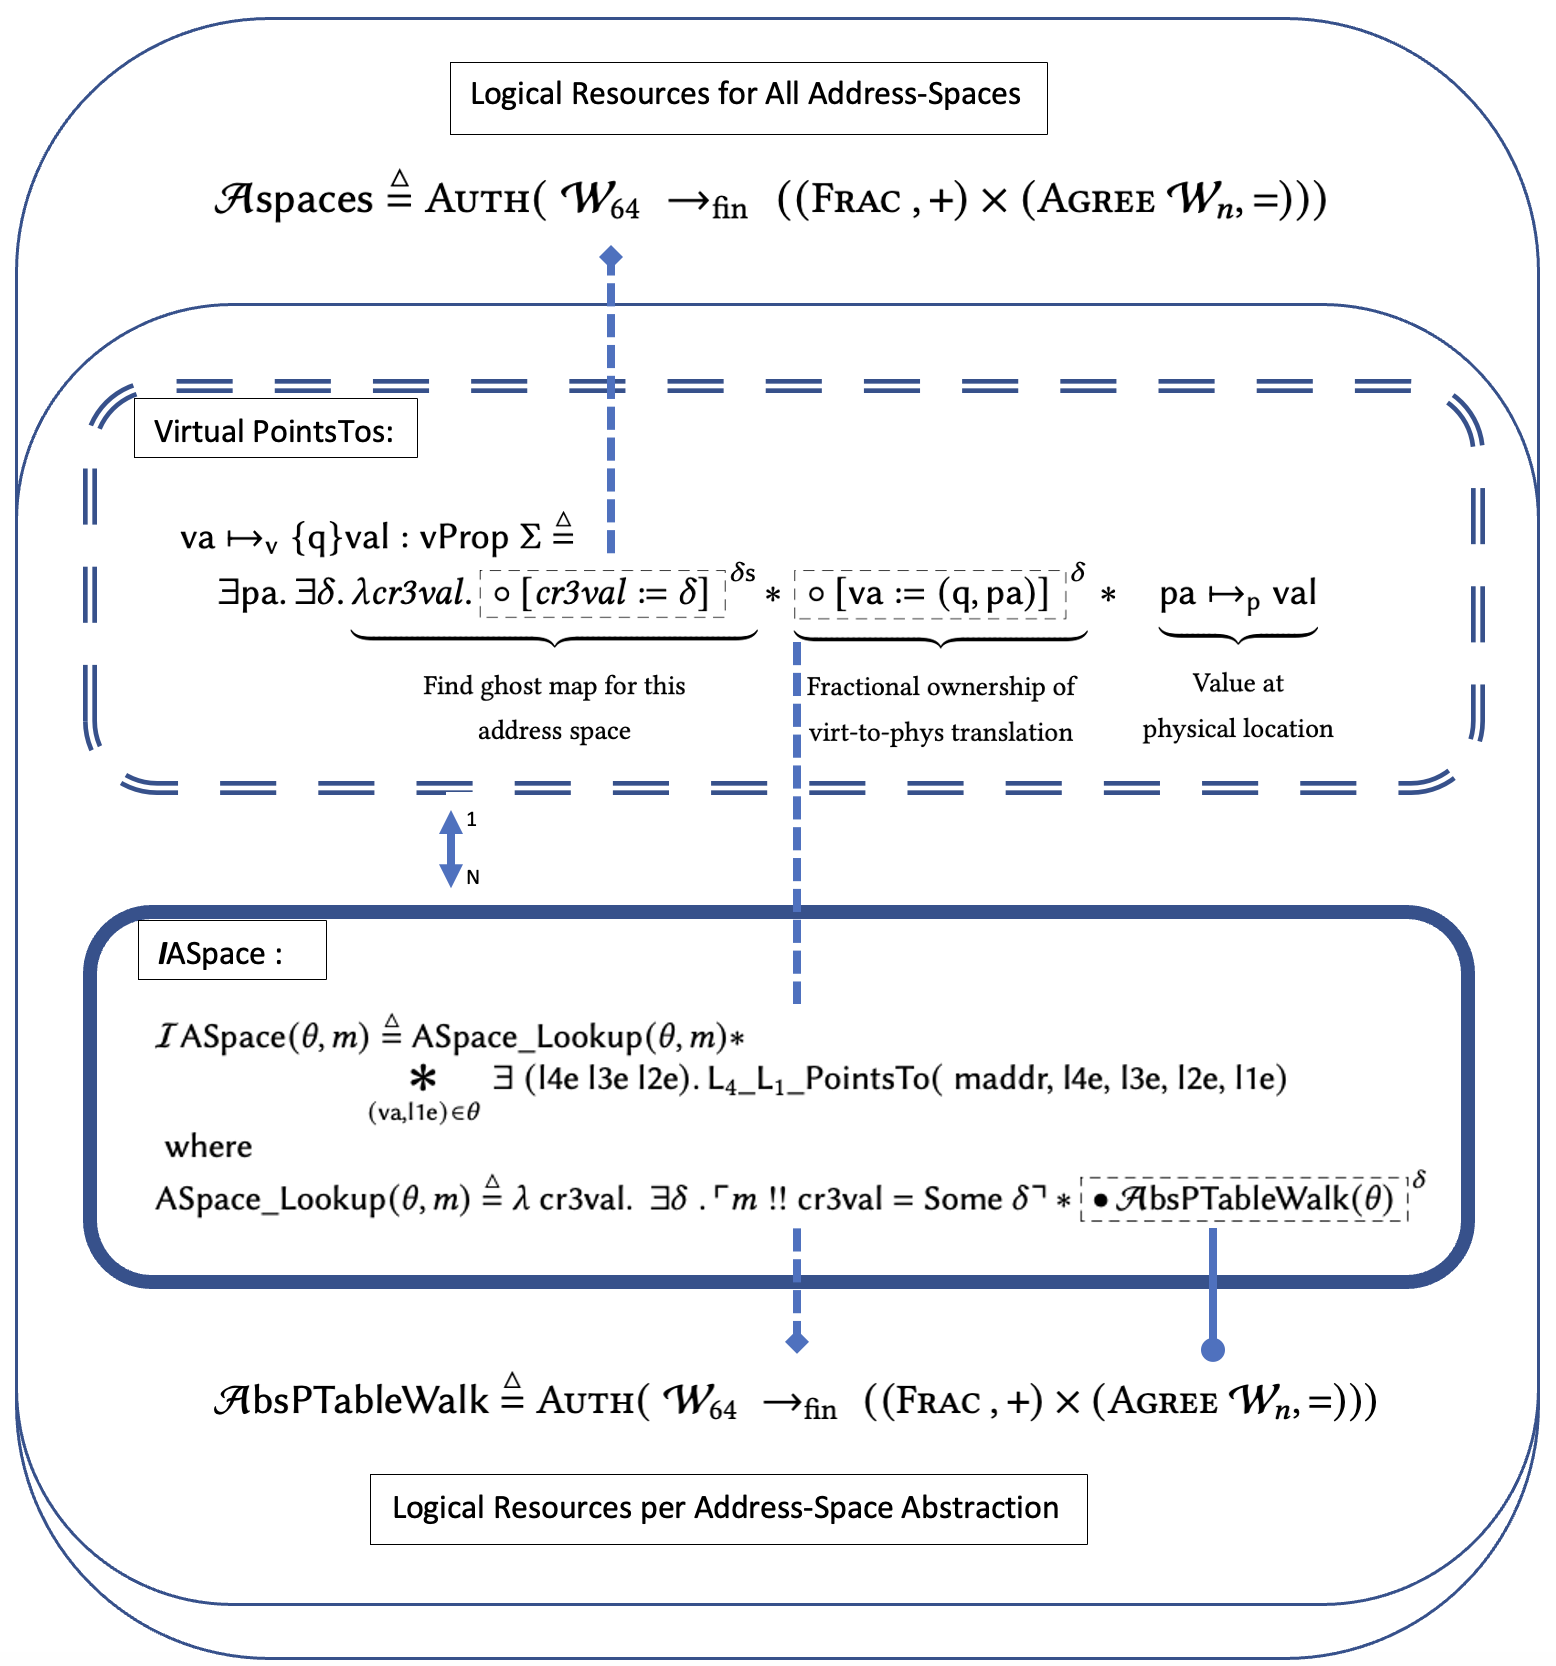
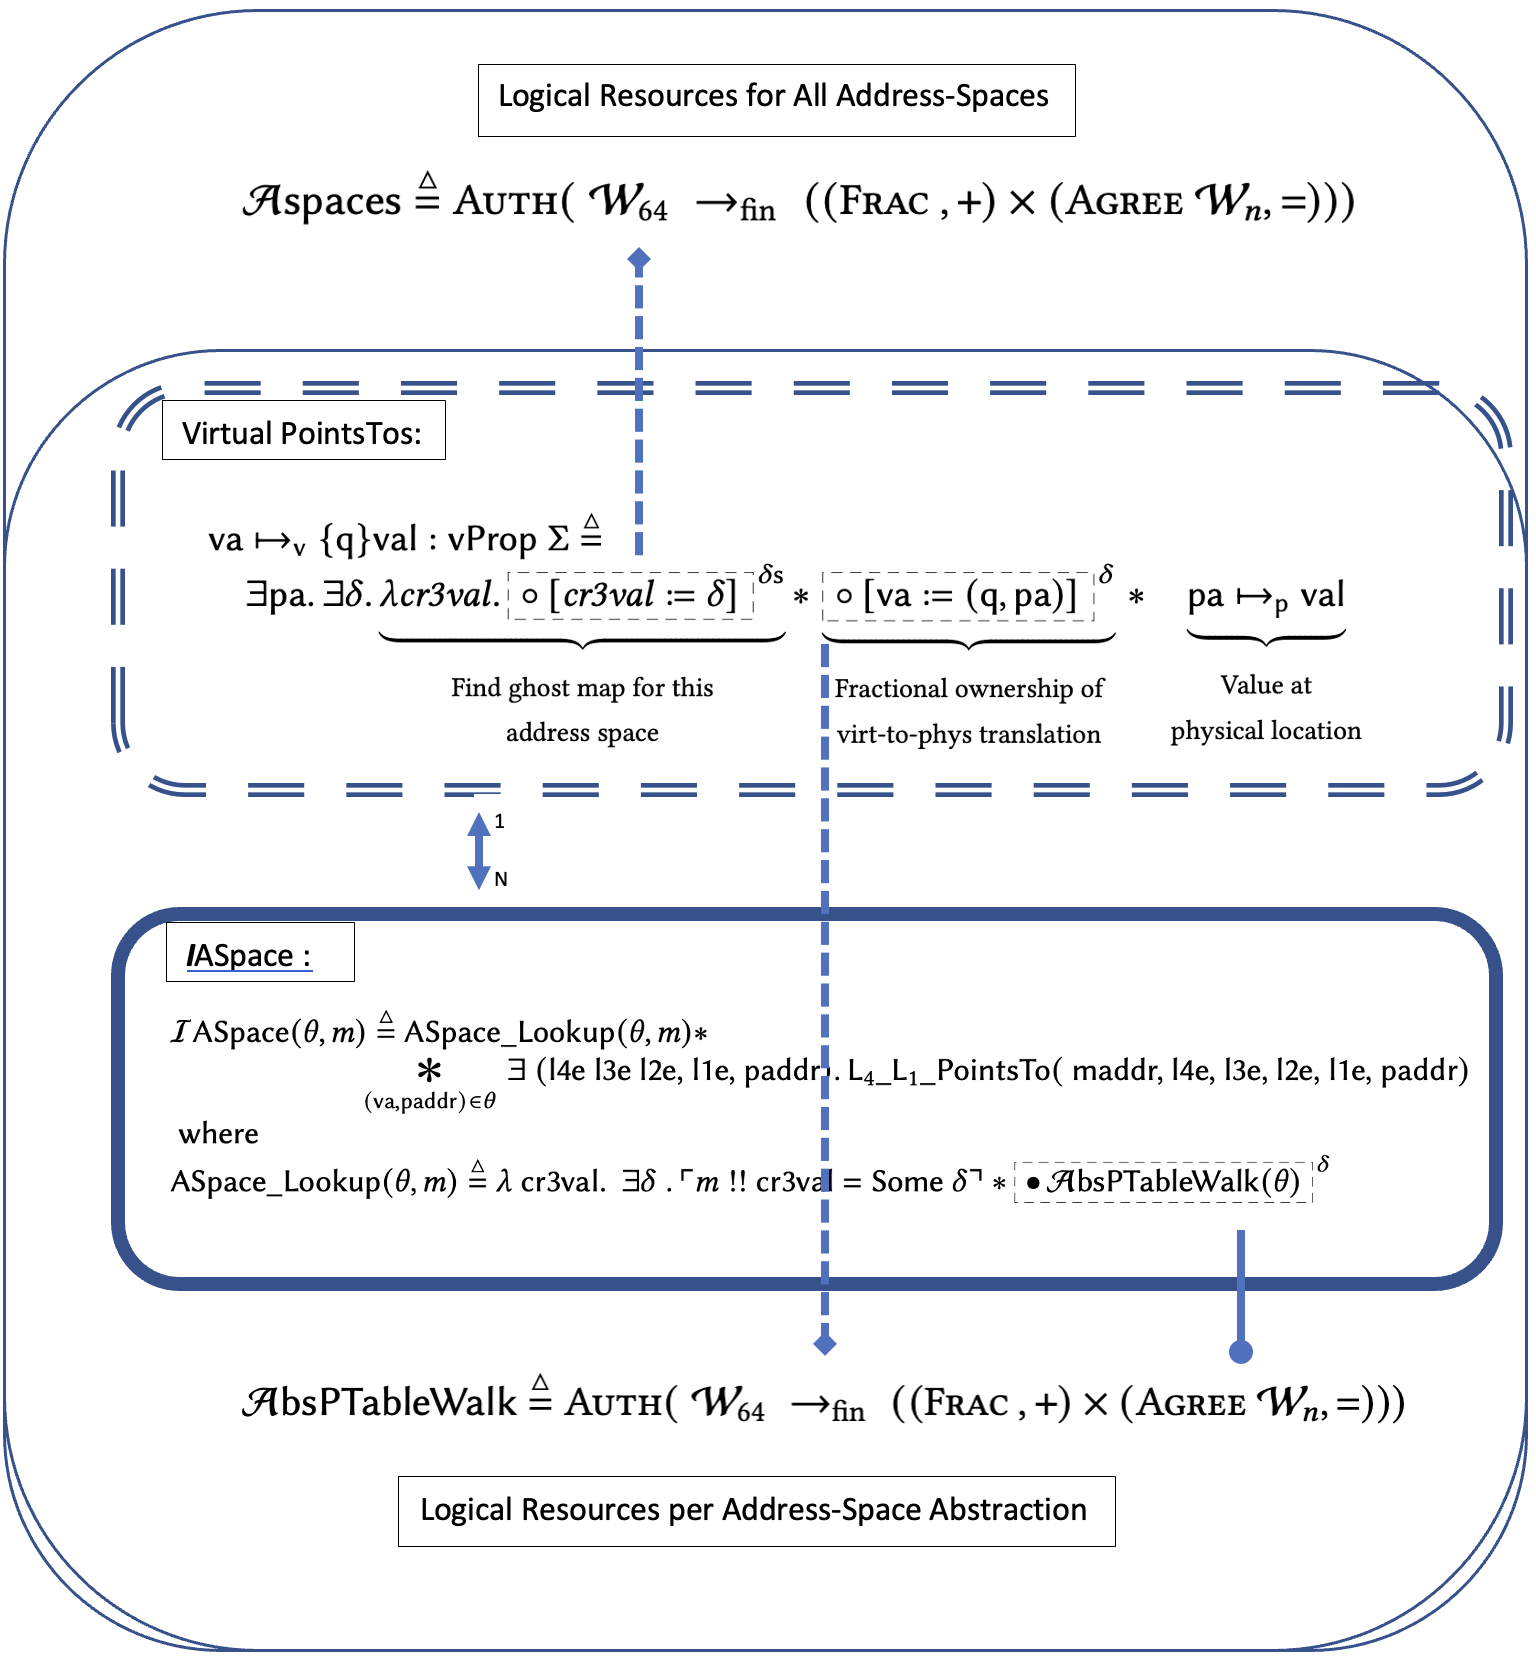
fix figures after submission-after-proof-fix

diff --git a/examples.tex b/examples.tex
@@ -56,19 +56,19 @@ $\specline{\textsf{P} \ast \mathcal{I}\texttt{ASpace}(\theta,m) \ast  \texttt{r1
 $\specline{ \nfpointsto{\mask\vaddr\maskfour\rtv}{\mask\vaddr\maskfouroff\rtv}\entryf\qone\naddr \ast}_{\rtv}$ 
 $\specline{  \nfpointsto{\mask\vaddr\maskthree\entryf}{\mask\vaddr\maskthreeoff\entryf}\entrytr\qtwo\naddr \ast \nfpointsto{\mask\vaddr\masktwo\entrytr}{\mask\vaddr\masktwooff\entrytr}\paddr\qthree\naddr \;\ast}_{\rtv}$
 $\specline{\texttt{pte\_addr} \mapsto_{\texttt{vpte}} \paddr\; (\texttt{wzero 64})  \ast \ulcorner \texttt{entry\_present } \entryf \land \texttt{entry\_present } \entrytr \land  \texttt{entry\_present } \entrytw \urcorner}_{\rtv}$
-$\specline{\exists \texttt{ fpaddr} \ldotp \ulcorner \texttt{aligned fpaddr} \urcorner \ast \texttt{rax}\mapsto_{\textsf{r}} \texttt{fpaddr} \ast \texttt{fpaddr} \mapsto_{\textsf{p}} (\texttt{wzero 64}) \ast \ulcorner \texttt{entry\_present fpaddr}\urcorner}_{\rtv}$
+$\specline{\exists \texttt{ fpaddr} \ldotp \ulcorner \texttt{aligned fpaddr} \urcorner \ast \texttt{rax}\mapsto_{\textsf{r}} \texttt{fpaddr+3} \ast \texttt{fpaddr} \mapsto_{\textsf{p}} (\texttt{wzero 64}) \ast \ulcorner \texttt{entry\_present (fpaddr+3)}\urcorner}_{\rtv}$
 ;; Calculate new L1 entry
 ;; update the page table entry, mapping the page
 mov (%r14), %rax
 $\specline{\textsf{P} \ast \mathcal{I}\texttt{ASpace}(\theta,m) \ast  \texttt{r14}\mapsto_{\textsf{r}} \texttt{pte\_addr} \ast \texttt{rdi}\mapsto_{\textsf{r}} \vaddr \;\ast}_{\rtv}$
 $\specline{ \nfpointsto{\mask\vaddr\maskfour\rtv}{\mask\vaddr\maskfouroff\rtv}\entryf\qone\naddr \ast}_{\rtv}$ 
 $\specline{  \nfpointsto{\mask\vaddr\maskthree\entryf}{\mask\vaddr\maskthreeoff\entryf}\entrytr\qtwo\naddr \ast \nfpointsto{\mask\vaddr\masktwo\entrytr}{\mask\vaddr\masktwooff\entrytr}\paddr\qthree\entryo \;\ast}_{\rtv}$
-$\specline{\texttt{pte\_addr} \mapsto_{\texttt{vpte}} \paddr \;(\texttt{fpaddr}) \; \ast \ulcorner \texttt{entry\_present } \entryf \land \texttt{entry\_present } \entrytr \land  \texttt{entry\_present } \entrytw \urcorner }_{\rtv}$
-$\specline{\exists \texttt{ fpaddr} \ldotp \ulcorner \texttt{aligned fpaddr} \urcorner \ast \texttt{rax}\mapsto_{\textsf{r}} \texttt{fpaddr} \ast \texttt{fpaddr} \mapsto_{\textsf{p}} (\texttt{wzero 64}) \ast \ulcorner \texttt{entry\_present fpaddr}\urcorner}_{\rtv}$
+$\specline{\texttt{pte\_addr} \mapsto_{\texttt{vpte}} \paddr \;(\texttt{fpaddr+3}) \; \ast \ulcorner \texttt{entry\_present } \entryf \land \texttt{entry\_present } \entrytr \land  \texttt{entry\_present } \entrytw \urcorner }_{\rtv}$
+$\specline{\ulcorner \texttt{aligned fpaddr} \urcorner \ast \texttt{rax}\mapsto_{\textsf{r}} \texttt{fpaddr+3} \ast \texttt{fpaddr} \mapsto_{\textsf{p}} (\texttt{wzero 64}) \ast \ulcorner \texttt{entry\_present fpaddr+3}\urcorner}_{\rtv}$
 $\;\;\;\;\;\;\;\;\;\;\;\;\;\;\;\;\;\;\;\;\;\;\;\;\;\;\;\;\;\;\;\;\;\;\;\;\;\;\;\;\;\;\;\; \sqsubseteq $
 $\specline{\textsf{P} \ast \mathcal{I}\texttt{ASpace}(\theta,m) \ast  \texttt{r14}\mapsto_{\textsf{r}} \texttt{pte\_addr} \ast \texttt{rdi}\mapsto_{\textsf{r}} \vaddr \ast }_{\rtv}$
-$\specline{\textsf{L}_{4}\_\textsf{L}_{1}\_\textsf{PointsTo}(\vaddr,\entryf,\entrytr,\entrytw,\fpaddr) \ast \ulcorner \theta \;!!\;\vaddr = \texttt{None}\urcorner \; \ast}_{\rtv}$
-$\specline{\ulcorner \texttt{aligned fpaddr} \urcorner \ast \texttt{rax}\mapsto_{\textsf{r}} \texttt{fpaddr} \ast \texttt{fpaddr} \mapsto_{\textsf{p}} (\texttt{wzero 64}) }_{\rtv}$
+$\specline{\textsf{L}_{4}\_\textsf{L}_{1}\_\textsf{PointsTo}(\vaddr,\entryf,\entrytr,\entrytw,\fpaddr+3) \ast \ulcorner \theta \;!!\;\vaddr = \texttt{None}\urcorner \; \ast}_{\rtv}$
+$\specline{\ulcorner \texttt{aligned fpaddr} \urcorner \ast \texttt{rax}\mapsto_{\textsf{r}} \texttt{fpaddr+3} \ast \texttt{fpaddr} \mapsto_{\textsf{p}} (\texttt{wzero 64}) }_{\rtv}$
 $\;\;\;\;\;\;\;\;\;\;\;\;\;\;\;\;\;\;\;\;\;\;\;\;\;\;\;\;\;\;\;\;\;\;\;\;\;\;\;\;\;\;\;\; \sqsubseteq $
 $\specline{\textsf{P} \ast \mathcal{I}\texttt{ASpace} (<[\vaddr:=\texttt{fpaddr}]> \theta,m) \ast}_{\rtv}$
 $\specline{\ulcorner \texttt{aligned fpaddr} \urcorner \ast \texttt{fpaddr} \mapsto_{\textsf{p}} \textsf{ wzero 64} \ast \sumapaces\rtv\delta  \ast\sumwalkabs\vaddr\qfrac\fpaddr}_{\rtv}$
@@ -139,7 +139,7 @@ $\mapsto_{\textsf{vpte}}$, after the split of the PTE points-to, we can
 connect L4-L2 points-to assertions (in Specification Lines 24 and 25) with 
  $\texttt{fpaddr} \mapsto_{a} (\texttt{wzero 64})$ to obtain the
 complete physical table-walk assertion (L4\_L1\_PointsTo(maddr l4e l3e l2e
-fpaddr)) in Line 30.
+fpaddr)) in Line 30. Reaching right at this point in the specification, we must note that we did find a trivial inconsistency in the postcondition related to conflating fpaddr as an address with the page table entry that reference fpaddr, and while the fix is straightforward we ran out of time.
 
 Finally, we can insert $\vaddr$ into the ghost page-table-walk summarization
 map ($\theta$) to change its state from unmapped ($\ulcorner \theta

diff --git a/programlogic.tex b/programlogic.tex
@@ -83,8 +83,8 @@ From this we can derive a more concise physical points-to when the split is unim
 \begin{figure*}
   \begin{lstlisting}[language=Coq]
  Definition $\vaddr\mapsto_{\textsf{t}}\{\textsf{q}\}\; \vpage$ : vProp $\Sigma$ := 
-  $\exists_{\textsf{l4e l3e l2e l1}} \ldotp$  $\ulcorner$ aligned $\vaddr \urcorner \ast$ L4_L1_PointsTo(maddr l4e l3e l2e l1e) $\ast$ addr_L1$(\vaddr,\textsf{l1e}) \mapsto_{p}\{\mathsf{q}\} \vpage$.
- Definition L4_L1_PointsTo (maddr l4e l3e l2e l1e :word 64) : vProp $\Sigma$ :=
+  $\exists_{\textsf{l4e l3e l2e l1}} \ldotp$  $\ulcorner$ aligned $\vaddr \urcorner \ast$ L4_L1_PointsTo(maddr l4e l3e l2e l1e paddr) $\ast$ \textsf{paddr} $\mapsto_{p}\{\mathsf{q}\} \vpage$.
+ Definition L4_L1_PointsTo (maddr l4e l3e l2e l1e paddr :word 64) : vProp $\Sigma$ :=
  $\lambda$ cr3val.
   $\ulcorner$ entry_present l4e $\land$ entry_present l3e $\land$ entry_present l2e $\land$ entry_present l1e$\urcorner$ $\ast$
   (l4M52 maddr cr3val) $\sim$ (l4off maddr cr3val) $\mapsto_{a}$ {q1}  l4e  $\ast$
@@ -242,7 +242,7 @@ to physical addresses.
 \[
 \begin{array}{l}
   \mathcal{I}\textsf{ASpace}(\ptablestore,m)\stackrel{\triangle}{=} \textsf{ASpace\_Lookup}(\ptablestore,m) \ast \\
- \qquad\qquad\qquad \bigast{(\vaddr, \textsf{l1e})\in \ptablestore}{\exists\;(\textsf{l4e l3e l2e})\ldotp \textsf{L}_{4}\_\textsf{L}_{1}\_\textsf{PointsTo}(\textsf{ maddr, l4e, l3e, l2e, l1e})} \\
+ \qquad\qquad\qquad \bigast{(\vaddr, \textsf{paddr})\in \ptablestore}{\exists\;(\textsf{l4e l3e l2e, l1e, paddr})\ldotp \textsf{L}_{4}\_\textsf{L}_{1}\_\textsf{PointsTo}(\textsf{ maddr, l4e, l3e, l2e, l1e, paddr})} \\
   \textsf{ where } \\
    \textsf{ASpace\_Lookup} (\ptablestore,m) \stackrel{\triangle}{=} \lambda\textsf{ cr3val} \ldotp \; \exists \gammaPred \; \ldotp \ulcorner m \; !!\; \textsf{cr3val} = \textsf{Some } \gammaPred \urcorner \ast
     \ownGhost\gammaPred{\authfull{\ptableabswalk\ptablestore}}
